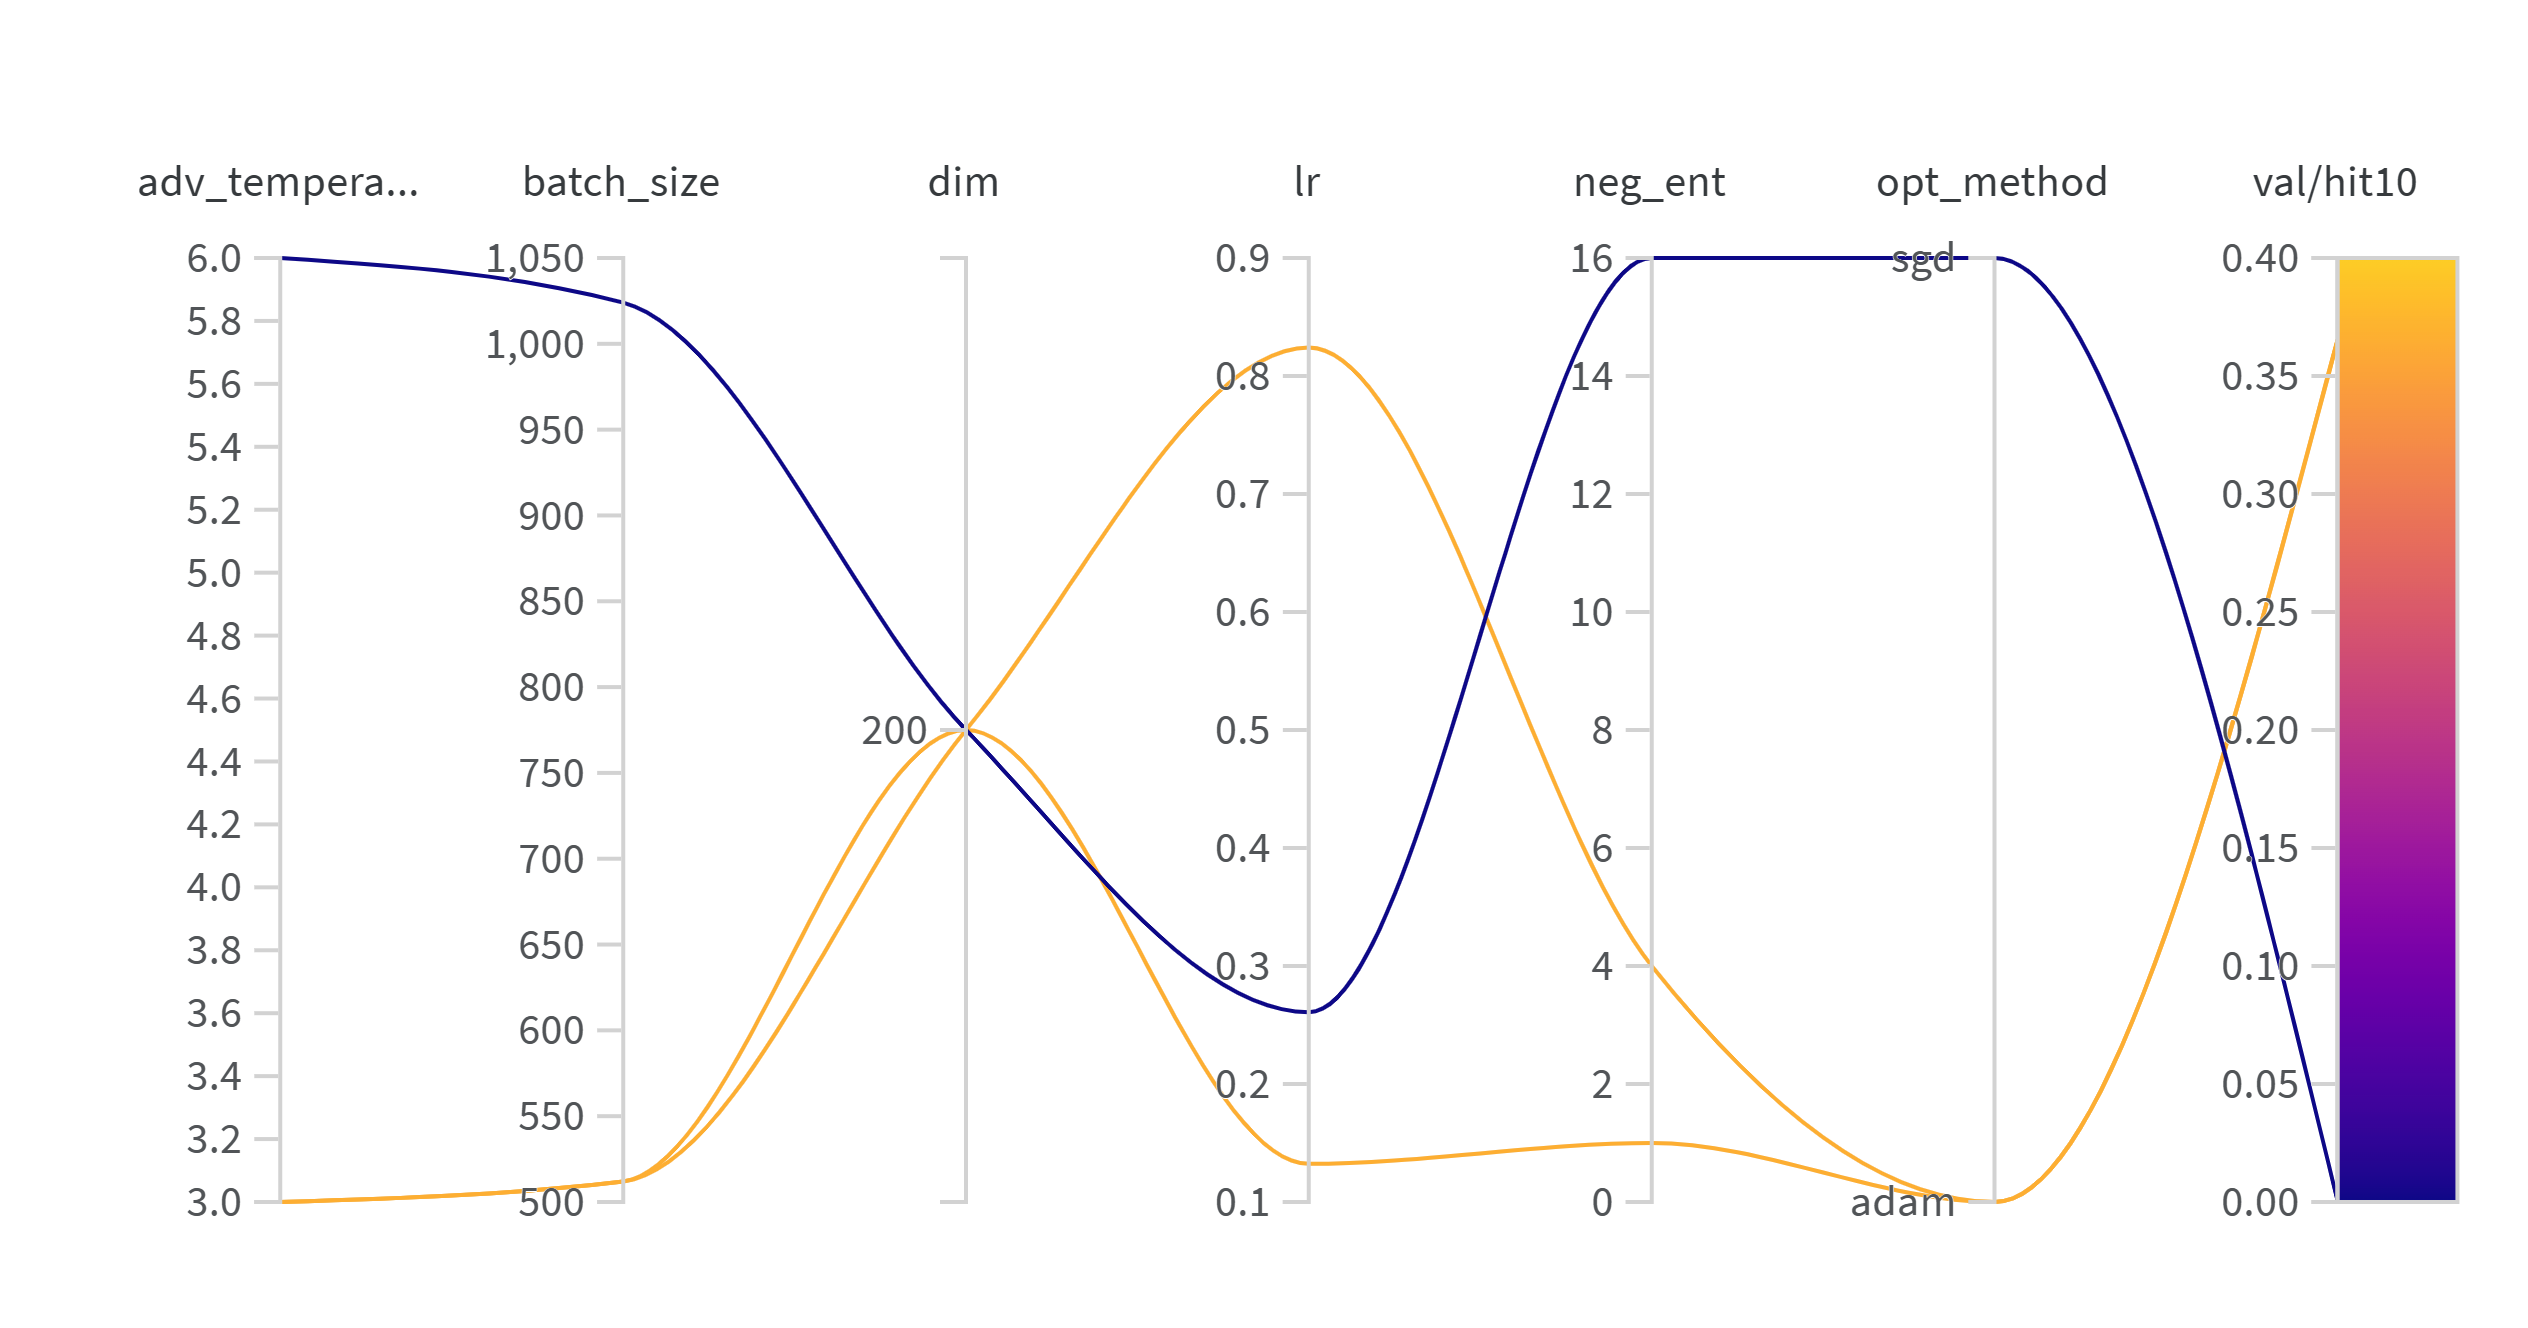
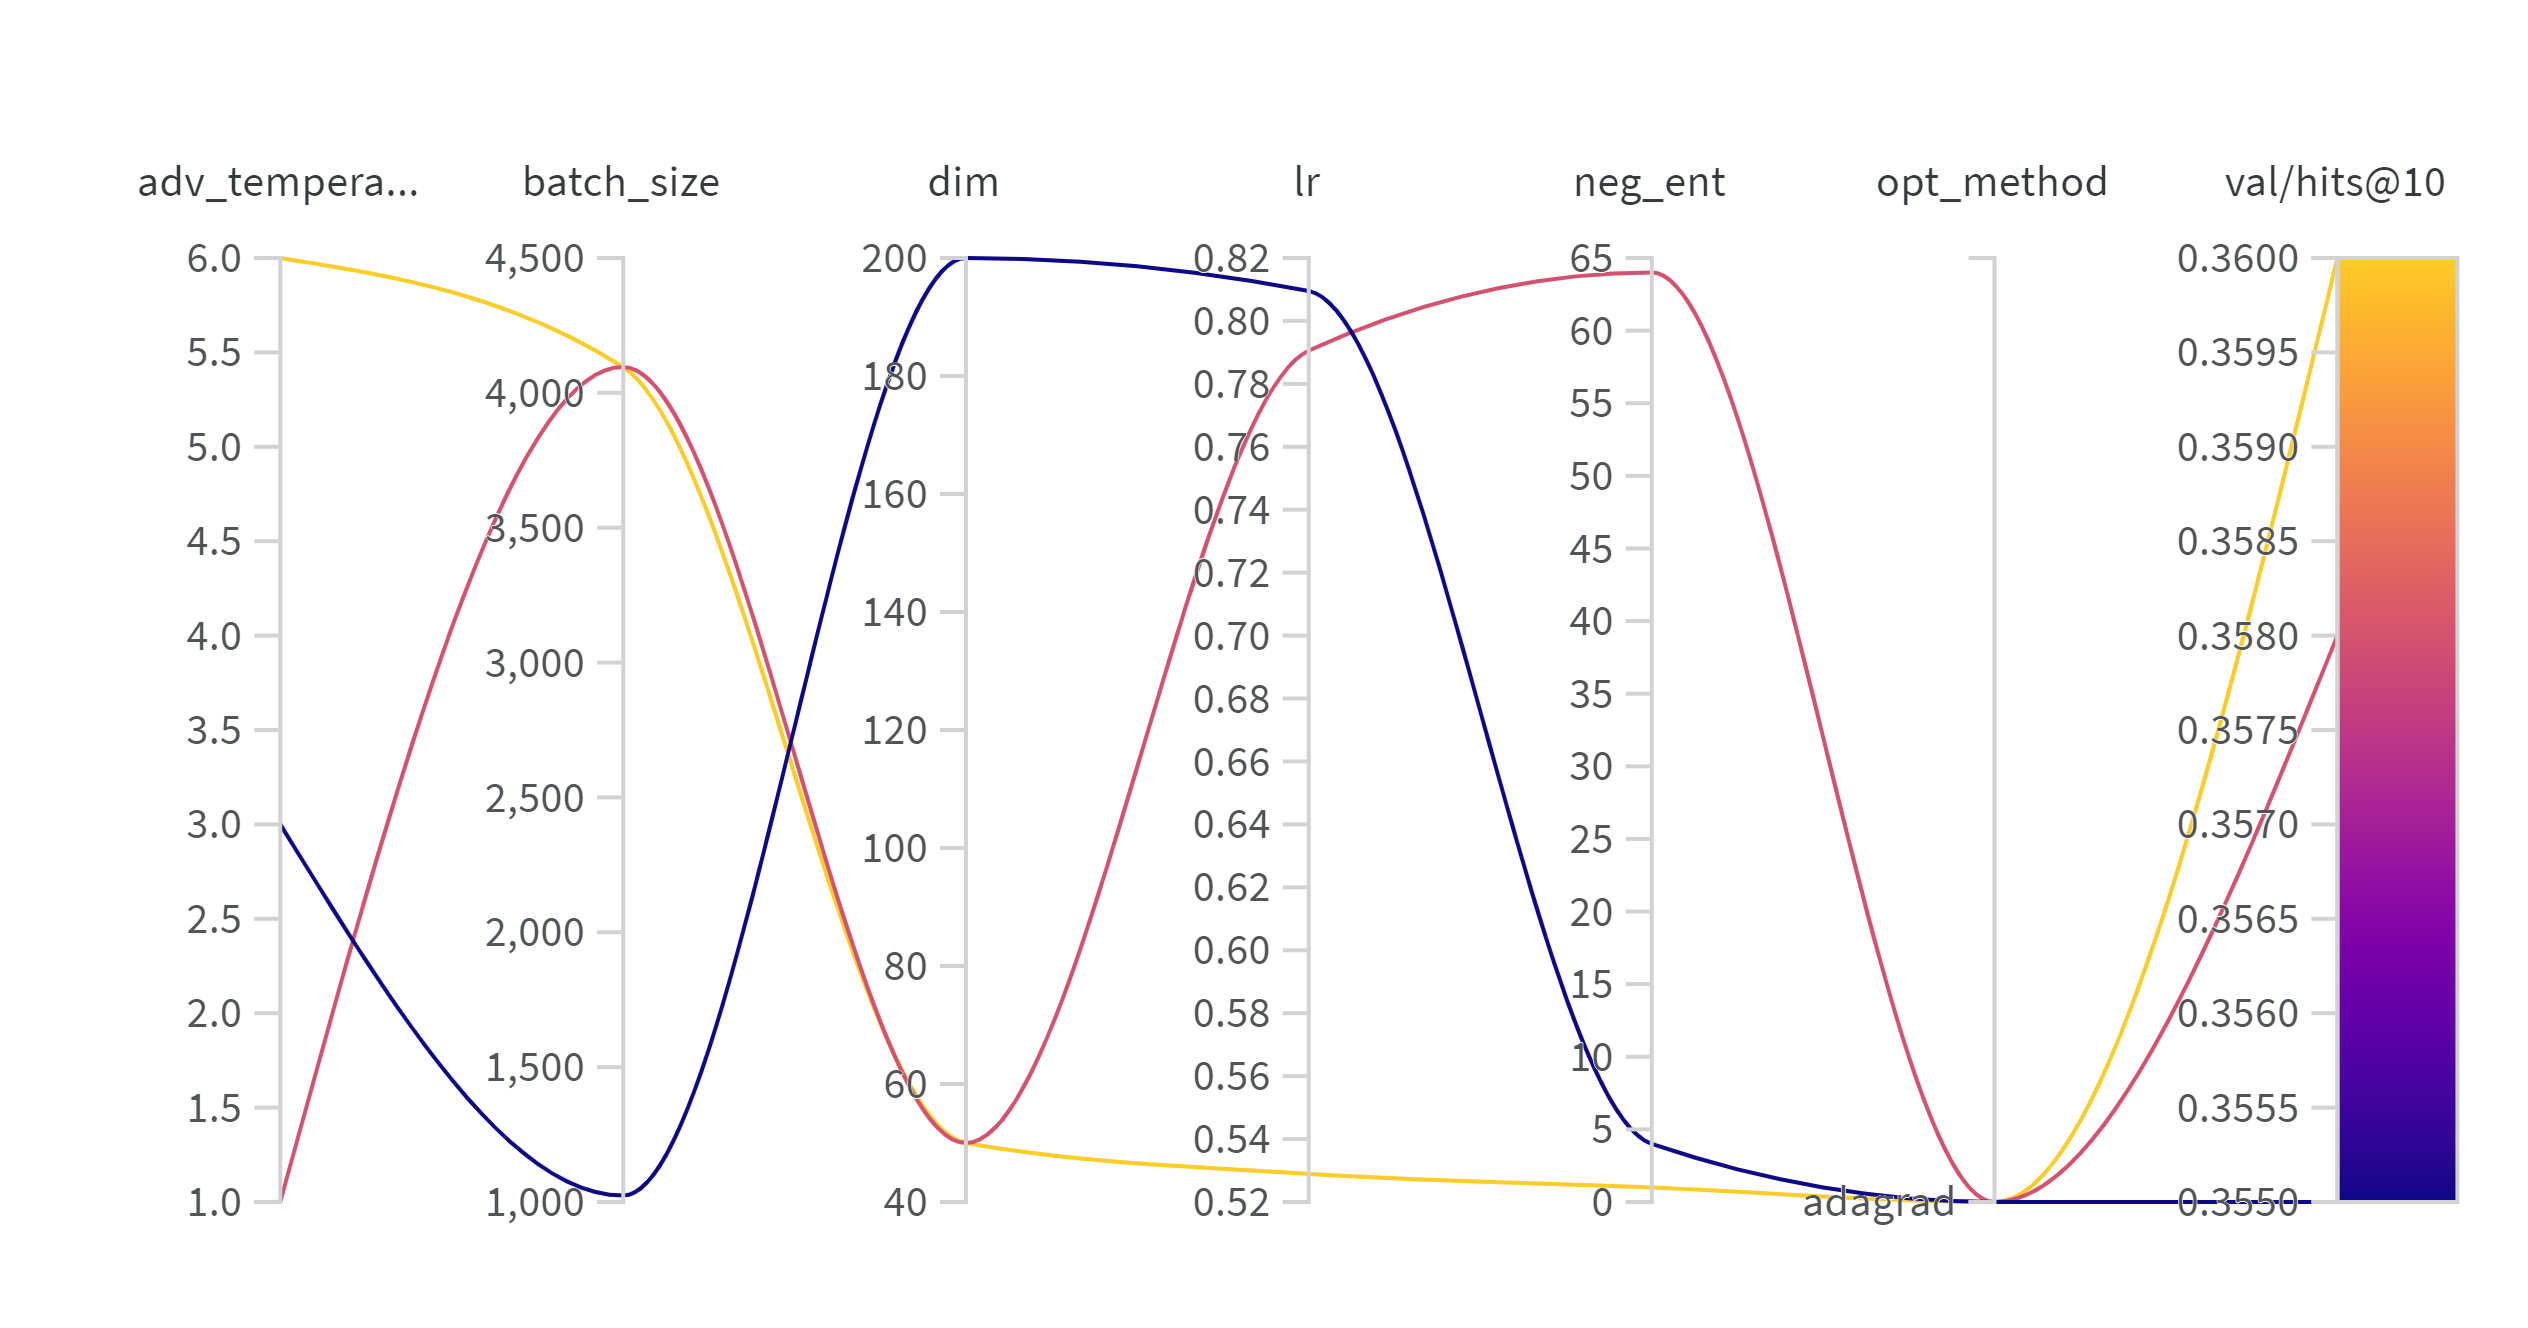
增加 HPO ComplEx

diff --git a/examples/ANALOGY/single_gpu_analogy_WN18RR_hpo.py b/examples/ANALOGY/single_gpu_analogy_WN18RR_hpo.py
@@ -13,26 +13,25 @@ ANALOGY-WN18RR-single-gpu-hpo
 """
 
 import pprint
-from pybind11_ke.data import get_train_data_loader_hpo_config
+from pybind11_ke.data import get_kge_data_loader_hpo_config
 from pybind11_ke.module.model import get_analogy_hpo_config
 from pybind11_ke.module.loss import get_softplus_loss_hpo_config
 from pybind11_ke.module.strategy import get_negative_sampling_hpo_config
-from pybind11_ke.data import get_test_data_loader_hpo_config
 from pybind11_ke.config import get_tester_hpo_config
 from pybind11_ke.config import get_trainer_hpo_config
 from pybind11_ke.config import set_hpo_config, start_hpo_train
 
 ######################################################################
-# :py:func:`pybind11_ke.data.get_train_data_loader_hpo_config` 将返回
-# :py:class:`pybind11_ke.data.TrainDataLoader` 的默认超参数优化范围，
+# :py:func:`pybind11_ke.data.get_kge_data_loader_hpo_config` 将返回
+# :py:class:`pybind11_ke.data.KGEDataLoader` 的默认超参数优化范围，
 # 你可以修改数据目录等信息。
 
-train_data_loader_config = get_train_data_loader_hpo_config()
-print("train_data_loader_config:")
-pprint.pprint(train_data_loader_config)
+data_loader_config = get_kge_data_loader_hpo_config()
+print("data_loader_config:")
+pprint.pprint(data_loader_config)
 print()
 
-train_data_loader_config.update({
+data_loader_config.update({
     'in_path': {
         'value': '../../benchmarks/WN18RR/'
     }
@@ -91,22 +90,6 @@ print()
 #
 
 ################################
-# 定义测试数据加载器超参数优化范围
-# ---------------------------------------------------------
-# :py:func:`pybind11_ke.data.get_test_data_loader_hpo_config` 返回了
-# :py:class:`pybind11_ke.data.TestDataLoader` 的默认超参数优化范围。
-
-# set the hpo config
-test_data_loader_config = get_test_data_loader_hpo_config()
-print("test_data_loader_config:")
-pprint.pprint(test_data_loader_config)
-print()
-
-######################################################################
-# --------------
-#
-
-################################
 # 定义评估器超参数优化范围
 # ---------------------------------------------------------
 # :py:func:`pybind11_ke.config.get_tester_hpo_config` 返回了
@@ -146,11 +129,10 @@ print()
 # set the hpo config
 sweep_config = set_hpo_config(
     sweep_name = "ANALOGY_WN18RR",
-    train_data_loader_config = train_data_loader_config,
+    data_loader_config = data_loader_config,
     kge_config = kge_config,
     loss_config = loss_config,
     strategy_config = strategy_config,
-    test_data_loader_config = test_data_loader_config,
     tester_config = tester_config,
     trainer_config = trainer_config)
 print("sweep_config:")

diff --git a/examples/SimplE/single_gpu_simple_WN18RR_hpo.py b/examples/SimplE/single_gpu_simple_WN18RR_hpo.py
@@ -12,26 +12,25 @@ SimplE-WN18RR-single-gpu-hpo
 """
 
 import pprint
-from pybind11_ke.data import get_train_data_loader_hpo_config
+from pybind11_ke.data import get_kge_data_loader_hpo_config
 from pybind11_ke.module.model import get_simple_hpo_config
 from pybind11_ke.module.loss import get_softplus_loss_hpo_config
 from pybind11_ke.module.strategy import get_negative_sampling_hpo_config
-from pybind11_ke.data import get_test_data_loader_hpo_config
 from pybind11_ke.config import get_tester_hpo_config
 from pybind11_ke.config import get_trainer_hpo_config
 from pybind11_ke.config import set_hpo_config, start_hpo_train
 
 ######################################################################
-# :py:func:`pybind11_ke.data.get_train_data_loader_hpo_config` 将返回
-# :py:class:`pybind11_ke.data.TrainDataLoader` 的默认超参数优化范围，
+# :py:func:`pybind11_ke.data.get_kge_data_loader_hpo_config` 将返回
+# :py:class:`pybind11_ke.data.KGEDataLoader` 的默认超参数优化范围，
 # 你可以修改数据目录等信息。
 
-train_data_loader_config = get_train_data_loader_hpo_config()
-print("train_data_loader_config:")
-pprint.pprint(train_data_loader_config)
+data_loader_config = get_kge_data_loader_hpo_config()
+print("data_loader_config:")
+pprint.pprint(data_loader_config)
 print()
 
-train_data_loader_config.update({
+data_loader_config.update({
     'in_path': {
         'value': '../../benchmarks/WN18RR/'
     },
@@ -93,22 +92,6 @@ print()
 #
 
 ################################
-# 定义测试数据加载器超参数优化范围
-# ---------------------------------------------------------
-# :py:func:`pybind11_ke.data.get_test_data_loader_hpo_config` 返回了
-# :py:class:`pybind11_ke.data.TestDataLoader` 的默认超参数优化范围。
-
-# set the hpo config
-test_data_loader_config = get_test_data_loader_hpo_config()
-print("test_data_loader_config:")
-pprint.pprint(test_data_loader_config)
-print()
-
-######################################################################
-# --------------
-#
-
-################################
 # 定义评估器超参数优化范围
 # ---------------------------------------------------------
 # :py:func:`pybind11_ke.config.get_tester_hpo_config` 返回了
@@ -148,11 +131,10 @@ print()
 # set the hpo config
 sweep_config = set_hpo_config(
     sweep_name = "SimplE_WN18RR",
-    train_data_loader_config = train_data_loader_config,
+    data_loader_config = data_loader_config,
     kge_config = kge_config,
     loss_config = loss_config,
     strategy_config = strategy_config,
-    test_data_loader_config = test_data_loader_config,
     tester_config = tester_config,
     trainer_config = trainer_config)
 print("sweep_config:")
